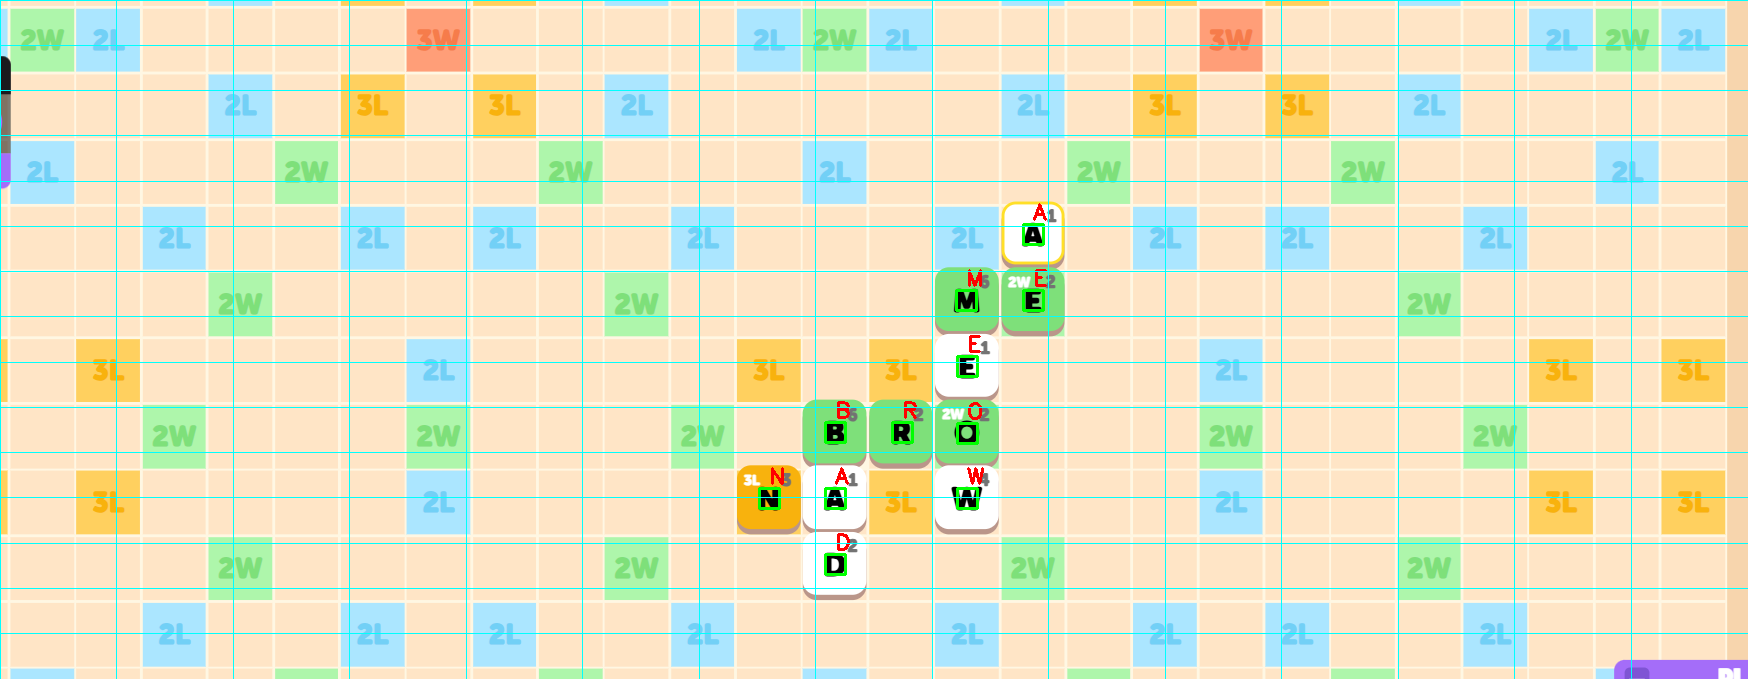
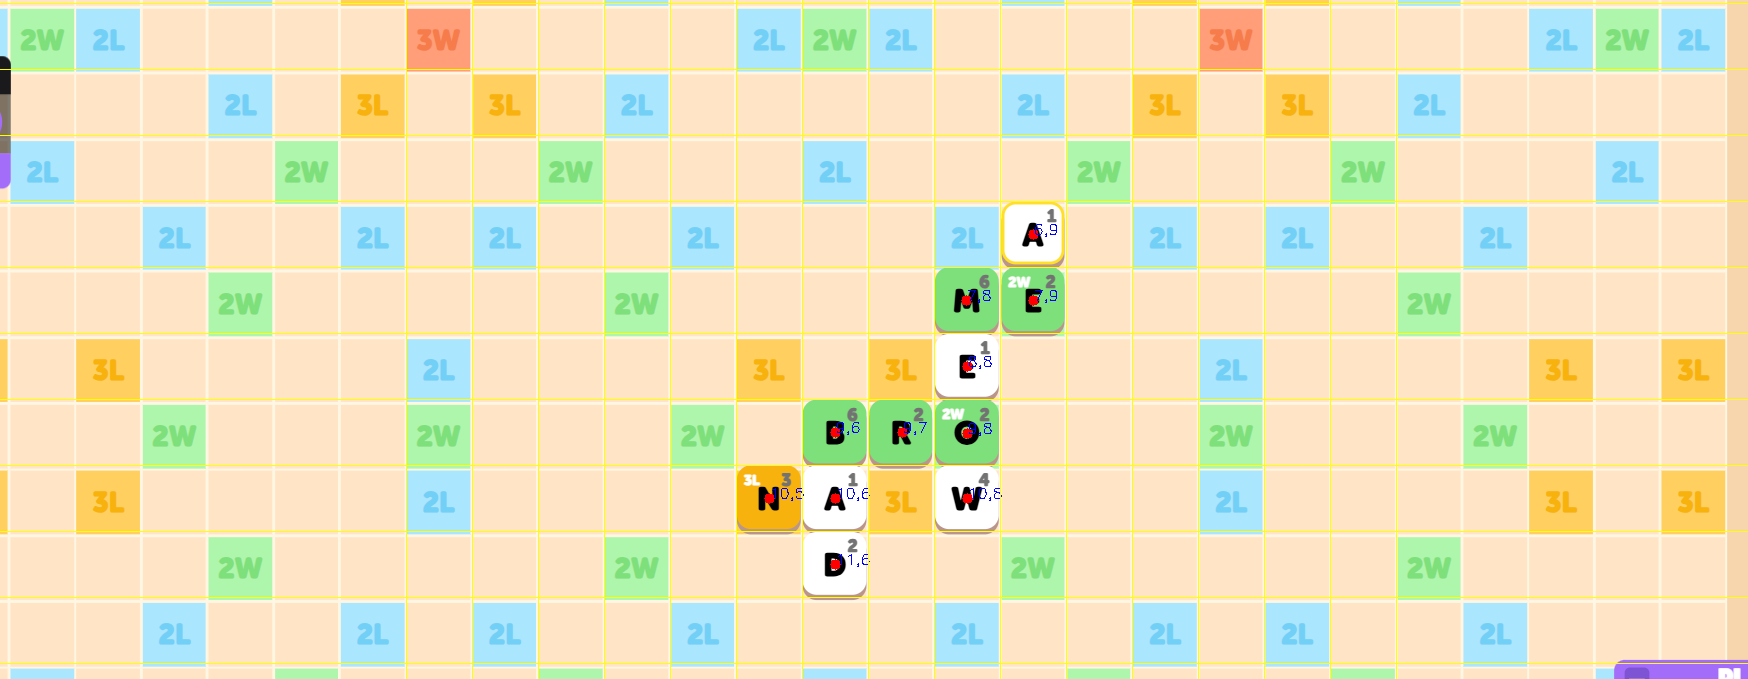
v2.10 基于具体字母位置分割棋盘

diff --git a/website/letter_league/main.py b/website/letter_league/main.py
@@ -4,6 +4,7 @@ import easyocr
 import os
 import math
 import time
+from collections import defaultdict
 
 # ==============================================================================
 # 🎯 第一部分：GADDAG 数据结构 & 求解器
@@ -57,11 +58,10 @@ class ScrabbleSolver:
         self.board = board_matrix
     def solve(self, rack_str):
         print(f"🧠 (Solver收到 Rack: {rack_str}，准备计算...)")
-        # 这里是求解逻辑的入口，目前仅返回空列表作为框架
         return []
 
 # ==============================================================================
-# 👁 第二部分：OCR 视觉层 (带智能排斥算法)
+# 👁 第二部分：OCR 视觉层 (基于字母位置重建网格)
 # ==============================================================================
 
 class LetterLeagueVision:
@@ -147,6 +147,7 @@ class LetterLeagueVision:
         return board, rack
 
     def ocr_rack(self, img):
+        # 严格复刻 test_rack_ocr.py
         gray = cv2.cvtColor(img, cv2.COLOR_BGR2GRAY)
         clahe = cv2.createCLAHE(clipLimit=2.0, tileGridSize=(8, 8))
         enhanced_gray = clahe.apply(gray)
@@ -161,7 +162,7 @@ class LetterLeagueVision:
                 valid_boxes.append((x, y, cw, ch))
         valid_boxes.sort(key=lambda b: b[0])
         
-        final_boxes = []
+        final_boxes = [] 
         for box in valid_boxes:
             if not final_boxes: final_boxes.append(box)
             else:
@@ -222,9 +223,8 @@ class LetterLeagueVision:
                 if min_d < thresh: final_tiles.append(t1)
         else: final_tiles = raw_tiles
         
-        detected_raw = [] # (cx, cy, char)
+        detected_raw = [] # 暂存识别结果
         
-        # 识别循环
         for (x, y, cw, ch) in final_tiles:
             cx, cy = x + cw//2, y + ch//2
             size = max(cw, ch) + 5
@@ -255,68 +255,94 @@ class LetterLeagueVision:
             detected_raw.append({'cx': cx, 'cy': cy, 'char': char})
 
         # =========================================================
-        # 🧩 智能网格映射 (Smart Grid Mapping with Anti-Collision)
+        # 🧩 算法升级: "Letter-Centric Grid Fitting"
+        # 直接利用识别出的字母位置来重建网格，无视图片切割误差
         # =========================================================
         matrix = [['' for _ in range(15)] for _ in range(15)]
-        cell_w = w / 15.0
-        cell_h = h / 15.0
         
-        # 1. 计算相位偏移 (校准起点)
-        if detected_raw:
-            shifts_x = [(d['cx'] / cell_w) % 1.0 for d in detected_raw]
-            shifts_y = [(d['cy'] / cell_h) % 1.0 for d in detected_raw]
-            phase_x = sum(shifts_x) / len(shifts_x)
-            phase_y = sum(shifts_y) / len(shifts_y)
-        else:
-            phase_x, phase_y = 0.5, 0.5
+        if not detected_raw:
+            return matrix
 
-        # 2. 先按行归类 (Cluster by Row)
-        rows_bucket = {}
-        for d in detected_raw:
-            # 算出它大概在哪一行
-            r_est = int((d['cy'] / cell_h) - phase_y + 0.5)
-            r_est = max(0, min(14, r_est))
-            if r_est not in rows_bucket: rows_bucket[r_est] = []
-            rows_bucket[r_est].append(d)
+        # 1. 聚类 (Clustering) 确定"活跃列"和"活跃行"
+        # 我们假设大概率 w/15 是一个合理的初始步长估计，用于判定"是否属于同一列"
+        est_step_x = w / 15.0
+        est_step_y = h / 15.0
+        
+        # 提取所有 X 坐标并排序
+        xs = sorted([d['cx'] for d in detected_raw])
+        ys = sorted([d['cy'] for d in detected_raw])
+        
+        # 计算字母间的真实间距 (Gap Analysis)
+        # 我们寻找最近邻间距的中位数，这通常就是 1 个格子的真实宽度
+        gaps_x = [xs[i+1]-xs[i] for i in range(len(xs)-1)]
+        gaps_y = [ys[i+1]-ys[i] for i in range(len(ys)-1)]
+        
+        # 过滤掉太大的间距 (跨列了) 和太小的间距 (同一列的微小抖动)
+        valid_gaps_x = [g for g in gaps_x if 0.5*est_step_x < g < 1.5*est_step_x]
+        valid_gaps_y = [g for g in gaps_y if 0.5*est_step_y < g < 1.5*est_step_y]
+        
+        # 如果找不到 valid gaps (比如字母太稀疏)，回退到估计值
+        true_step_x = np.median(valid_gaps_x) if valid_gaps_x else est_step_x
+        true_step_y = np.median(valid_gaps_y) if valid_gaps_y else est_step_y
+        
+        print(f"📏 网格重建: 估算步长 {est_step_x:.1f}px -> 真实步长 {true_step_x:.1f}px")
 
+        # 2. 锚点对齐 (Anchor Alignment)
+        # 找一个靠近图片中心的字母作为"绝对锚点"，以它为基准向四周推导
+        # 这样可以消除边缘切割误差带来的整体漂移
+        center_x, center_y = w/2, h/2
+        
+        # 找到离中心最近的那个字母
+        anchor_tile = min(detected_raw, key=lambda d: abs(d['cx']-center_x) + abs(d['cy']-center_y))
+        
+        # 估算这个锚点在 15x15 网格里的绝对坐标 (approximate)
+        # 这里我们仍然需要依赖一次 w/15 来确定锚点大概是第几列
+        # 但是只用这一次！一旦确定它是 (7,7) 或 (8,6)，后续所有坐标都相对于它计算
+        anchor_col_idx = int(anchor_tile['cx'] / est_step_x)
+        anchor_row_idx = int(anchor_tile['cy'] / est_step_y)
+        
+        # 修正锚点坐标 (Clamp to 0-14)
+        anchor_col_idx = max(0, min(14, anchor_col_idx))
+        anchor_row_idx = max(0, min(14, anchor_row_idx))
+        
+        # 推导网格的"真实零点" (Grid Origin)
+        # Origin = AnchorPixel - AnchorIndex * TrueStep
+        grid_origin_x = anchor_tile['cx'] - anchor_col_idx * true_step_x
+        grid_origin_y = anchor_tile['cy'] - anchor_row_idx * true_step_y
+        
         debug_viz = img.copy()
-
-        # 3. 行内处理 (排斥算法)
-        for r_idx, items in rows_bucket.items():
-            # 按 x 坐标排序
-            items.sort(key=lambda item: item['cx'])
+        
+        # 3. 映射所有字母
+        for d in detected_raw:
+            # 公式: Index = round( (Pixel - Origin) / TrueStep )
+            c_idx = int(round((d['cx'] - grid_origin_x) / true_step_x))
+            r_idx = int(round((d['cy'] - grid_origin_y) / true_step_y))
             
-            last_c_idx = -1
+            # 边界保护
+            c_idx = max(0, min(14, c_idx))
+            r_idx = max(0, min(14, r_idx))
             
-            for item in items:
-                # 原始算出的列号
-                raw_c_idx = int((item['cx'] / cell_w) - phase_x + 0.5)
-                
-                # 🛡 冲突排斥逻辑
-                # 如果当前字母算出来的位置 <= 上一个字母的位置
-                # 说明发生了挤压，强制往后推一格
-                final_c_idx = max(raw_c_idx, last_c_idx + 1)
-                
-                # 边界保护
-                final_c_idx = max(0, min(14, final_c_idx))
-                
-                # 写入矩阵
-                matrix[r_idx][final_c_idx] = item['char']
-                
-                # 更新 last_c_idx
-                last_c_idx = final_c_idx
-                
-                # Debug绘图
-                x, y = int(item['cx']), int(item['cy'])
-                cv2.rectangle(debug_viz, (x-10, y-10), (x+10, y+10), (0, 255, 0), 2)
-                cv2.putText(debug_viz, f"{item['char']}", (x, y-15), cv2.FONT_HERSHEY_SIMPLEX, 0.7, (0, 0, 255), 2)
+            matrix[r_idx][c_idx] = d['char']
+            
+            # Debug
+            cv2.circle(debug_viz, (int(d['cx']), int(d['cy'])), 5, (0,0,255), -1)
+            cv2.putText(debug_viz, f"{r_idx},{c_idx}", (int(d['cx']), int(d['cy'])), cv2.FONT_HERSHEY_SIMPLEX, 0.5, (255,0,0), 1)
 
-        # 画网格线验证
+        # 画出推导出的网格线
         for i in range(16):
-            x_line = int(i * cell_w)
-            y_line = int(i * cell_h)
-            cv2.line(debug_viz, (x_line, 0), (x_line, h), (255, 255, 0), 1)
-            cv2.line(debug_viz, (0, y_line), (w, y_line), (255, 255, 0), 1)
+            x = int(grid_origin_x + (i - 0.5) * true_step_x) # -0.5 是因为 grid_origin 是 col 0 的中心
+            y = int(grid_origin_y + (i - 0.5) * true_step_y)
+            # x, y 是格子的边界线
+            # 修正一下显示: 我们的 grid_origin 是 col 0 的中心点坐标
+            # 所以 col 0 的左边界是 origin - 0.5 * step
+            # col i 的左边界是 origin + (i - 0.5) * step
+            
+            # 简单的画线逻辑
+            vx = int(grid_origin_x + (i - 0.5) * true_step_x)
+            vy = int(grid_origin_y + (i - 0.5) * true_step_y)
+            
+            cv2.line(debug_viz, (vx, 0), (vx, h), (0, 255, 255), 1)
+            cv2.line(debug_viz, (0, vy), (w, vy), (0, 255, 255), 1)
 
         cv2.imwrite(f"{self.out_dir}/debug_board_grid.png", debug_viz)
         return matrix
